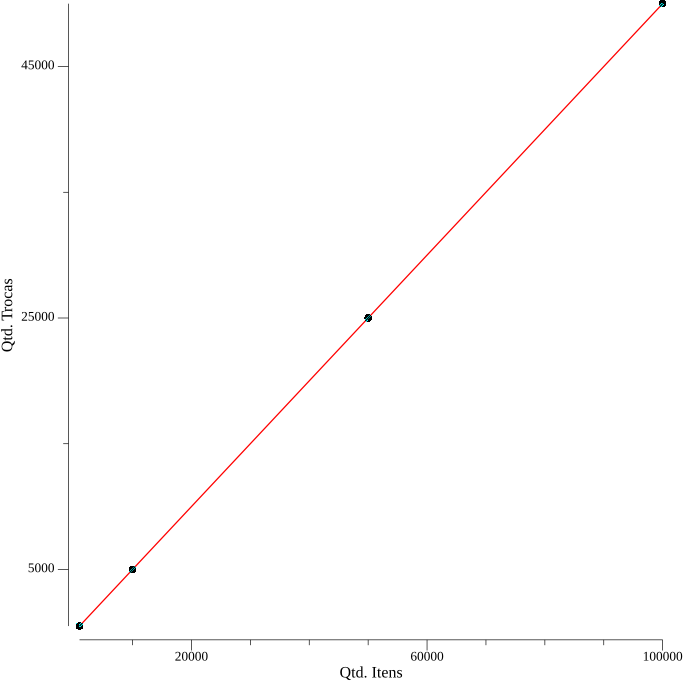
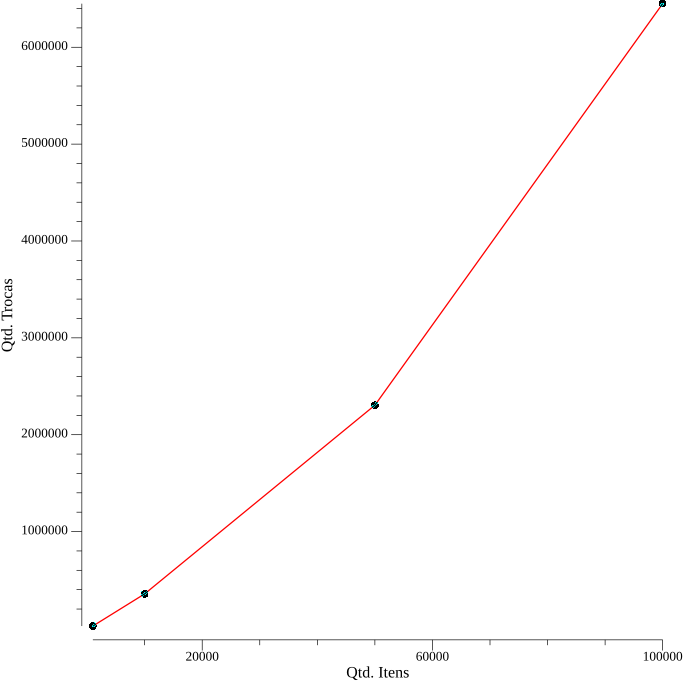
mais correcoes

diff --git a/main.go b/main.go
@@ -1,7 +1,9 @@
 package main
 
 import (
+	"encoding/json"
 	"fmt"
+	"log"
 	a "main/algoritms"
 	"reflect"
 	"time"
@@ -10,18 +12,19 @@ import (
 func executeAlgorithm(a a.SortAlg, list []int) (int, int, time.Duration) {
 	return a(list)
 }
+
 func initResultMap() map[string]map[string]map[string]map[string]interface{} {
 	var resultMap = make(map[string]map[string]map[string]map[string]interface{}, len(mapAlgorithms))
 	for k, v := range mapAlgorithms {
 		v = v
 		resultMap[k] = make(map[string]map[string]map[string]interface{}, len(listSizes))
 		for i := range listSizes {
-			resultMap[k][listSizes[i]] = make(map[string]map[string]interface{}, len(listNames))
-			for j := range listNames {
-				resultMap[k][listSizes[i]][listNames[j]] = make(map[string]interface{}, 3)
-				resultMap[k][listSizes[i]][listNames[j]]["comparacoes"] = 0
-				resultMap[k][listSizes[i]][listNames[j]]["trocas"] = 0
-				resultMap[k][listSizes[i]][listNames[j]]["tempo"] = time.Now()
+			resultMap[k][listSizes[i]] = make(map[string]map[string]interface{}, len(listDistributions))
+			for j := range listDistributions {
+				resultMap[k][listSizes[i]][listDistributions[j]] = make(map[string]interface{}, 3)
+				resultMap[k][listSizes[i]][listDistributions[j]]["comparacoes"] = 0
+				resultMap[k][listSizes[i]][listDistributions[j]]["trocas"] = 0
+				resultMap[k][listSizes[i]][listDistributions[j]]["tempo"] = time.Now()
 			}
 		}
 	}
@@ -32,25 +35,20 @@ func runAlgorithms(l *Lists) map[string]map[string]map[string]map[string]interfa
 	v := reflect.ValueOf(l).Elem()
 	resultMap := initResultMap()
 
-	for i := 0; i < v.NumField(); i++ {
-		listas := v.Field(i)
-		for j := 0; j < listas.NumField(); j++ {
-			listaAny := listas.Field(j).Addr().Interface()
-			fmt.Println(listas.Field(j).Cap())
-			lista := listaAny.(*[]int)
-			var listaCopia = make([]int, len(*lista))
-			copy(listaCopia, *lista)
+	for k, alg := range mapAlgorithms {
+		for i := 0; i < v.NumField(); i++ {
+			listas := v.Field(i)
+			for j := 0; j < listas.NumField(); j++ {
+				listaAny := listas.Field(j).Addr().Interface()
+				lista := listaAny.(*[]int)
+				var listaCopia = make([]int, len(*lista))
+				copy(listaCopia, *lista)
 
-			for k, v := range mapAlgorithms {
-				fmt.Println("---", k, "---")
-				c, t, d := executeAlgorithm(v, listaCopia)
-				resultMap[k][listSizes[i]][listNames[j]]["comparacoes"] = c
-				resultMap[k][listSizes[i]][listNames[j]]["trocas"] = t
-				duration := float64(d) / float64(time.Millisecond)
-				resultMap[k][listSizes[i]][listNames[j]]["tempo"] = duration
-				// fmt.Printf("Tipo de lista: %v - %v, Algoritmo: %v -- \nComparações: %v\nTrocas: %v\nDuração: %v\n\n",
-				// 	listNames[j], listSizes[i], k, c, t, duration,
-				// )
+				c, t, d := executeAlgorithm(alg, listaCopia)
+
+				resultMap[k][listSizes[i]][listDistributions[j]]["comparacoes"] = c
+				resultMap[k][listSizes[i]][listDistributions[j]]["trocas"] = t
+				resultMap[k][listSizes[i]][listDistributions[j]]["tempo"] = float64(d) / float64(time.Millisecond)
 			}
 		}
 	}
@@ -59,15 +57,14 @@ func runAlgorithms(l *Lists) map[string]map[string]map[string]map[string]interfa
 }
 
 func main() {
+
 	lists := NewListsNumbers()
 	res := runAlgorithms(lists)
-	// resJson, err := json.Marshal(res)
-	// if err != nil {
-	// 	log.Fatal(err)
-	// }
+	resJson, err := json.Marshal(res)
+	if err != nil {
+		log.Fatal(err)
+	}
 
-	// fmt.Println(string(resJson))
-	// var lista = []int{5, 6, 9, 3, 1, 10, 8, 2, 7, 4}
-	// a.SelectionSort(lista)
+	fmt.Println(string(resJson))
 	plotGraphs(res)
 }

diff --git a/algoritms/mergesort.go b/algoritms/mergesort.go
@@ -5,8 +5,8 @@ import (
 	"time"
 )
 
-var comparacoes *int = new(int)
-var trocas *int = new(int)
+var comparacoes int = 0
+var trocas int = 0
 
 func merge(arr1 []int, arr2 []int) []int {
 	var i, j, k int = 0, 0, 0
@@ -14,43 +14,43 @@ func merge(arr1 []int, arr2 []int) []int {
 	arr3 := make([]int, 0, lenArr3)
 
 	for {
-		*comparacoes++
+		comparacoes++
 		if i > len(arr1) && j > len(arr2) {
 			break
 		}
 
-		*comparacoes++
+		comparacoes++
 		if arr1[i] < arr2[j] {
 			arr3 = append(arr3, arr1[i])
-			*trocas++
+			trocas++
 			k++
 			i++
 		} else if arr2[j] < arr1[i] {
-			*comparacoes++
+			comparacoes++
+			trocas++
 			arr3 = append(arr3, arr2[j])
-			*trocas++
 			k++
 			j++
 		} else {
+			trocas = trocas + 2
 			arr3 = append(arr3, arr1[i])
 			arr3 = append(arr3, arr2[j])
-			*trocas = *trocas + 2
 			k = k + 2
 			i++
 			j++
 		}
 
-		*comparacoes++
+		comparacoes++
 		if i >= len(arr1) {
 			arr3 = append(arr3, arr2[j:]...)
-			*trocas = len(arr2[i:])
+			trocas = trocas + len(arr2[i:])
 			break
 		}
 
-		*comparacoes++
+		comparacoes++
 		if j >= len(arr2) {
 			arr3 = append(arr3, arr1[i:]...)
-			*trocas = len(arr1[i:])
+			trocas = trocas + len(arr1[i:])
 			break
 		}
 	}
@@ -73,11 +73,15 @@ func mergeSort(arr []int) []int {
 
 func MergeSort(arr []int) (int, int, time.Duration) {
 	start := time.Now()
-	res := mergeSort(arr)
-	if ValidateSorting(res) {
-		fmt.Println("CERTO")
+
+	if ValidateSorting(arr) {
+		fmt.Println("array ja ta ordenada")
 	} else {
-		fmt.Println("ERRADO")
+		fmt.Println("array ta desordenada certo")
 	}
-	return *comparacoes, *trocas, time.Since(start)
+
+	mergeSort(arr)
+
+	fmt.Println("trocas: ", trocas)
+	return comparacoes, trocas, time.Since(start)
 }

diff --git a/algoritms/quicksort.go b/algoritms/quicksort.go
@@ -1,32 +1,31 @@
 package algorithms
 
 import (
-	"fmt"
 	"time"
 )
 
-var comp *int = new(int)
-var tr *int = new(int)
+var comp int = 0
+var tr int = 0
 
 func partition(arr *[]int, s int, e int) int {
 	p := (*arr)[e]
 	i := s - 1
 
 	for j := s; j < e; j++ {
-		*comp++
+		comp++
 		if (*arr)[j] <= p {
 			i++
 			(*arr)[i], (*arr)[j] = (*arr)[j], (*arr)[i]
-			*tr++
+			tr++
 		}
 	}
 	(*arr)[i+1], (*arr)[e] = (*arr)[e], (*arr)[i+1]
-	*tr++
+	tr++
 	return i + 1
 }
 
 func quickSort(arr *[]int, s int, e int) {
-	*comp++
+	comp++
 	if s <= e {
 		p := partition(arr, s, e)
 
@@ -39,10 +38,6 @@ func QuickSort(arr []int) (int, int, time.Duration) {
 	start := time.Now()
 	var arrPtr = &arr
 	quickSort(arrPtr, 0, len(arr)-1)
-	if ValidateSorting(*arrPtr) {
-		fmt.Println("CERTO")
-	} else {
-		fmt.Println("ERRADO")
-	}
-	return *comp, *tr, time.Since(start)
+
+	return comp, tr, time.Since(start)
 }

diff --git a/docs.go b/docs.go
@@ -2,24 +2,24 @@ package main
 
 import a "main/algoritms"
 
-var listNames = []string{
-	"Ordem aleatória",
-	"Ordem crescente",
-	"Ordem decrescente",
+var listDistributions = map[int]string{
+	0: "Ordem aleatória",
+	1: "Ordem crescente",
+	2: "Ordem decrescente",
 }
 
-var listSizes = []string{
-	"1000",
-	"10000",
-	"50000",
-	"100000",
+var listSizes = map[int]string{
+	0: "1000",
+	1: "10000",
+	2: "50000",
+	3: "100000",
 }
 
 var mapAlgorithms = map[string]a.SortAlg{
 	// "Bubble Sort":    a.BubbleSort,
 	// "Selection Sort": a.SelectionSort,
 	// "Insertion Sort": a.InsertionSort,
-	// "Merge Sort":     a.MergeSort,
+	"Merge Sort":     a.MergeSort,
 	// "Quick Sort":     a.QuickSort,
 	// "Heap Sort":      a.HeapSort,
 }

diff --git a/algoritms/selectionsort.go b/algoritms/selectionsort.go
@@ -1,7 +1,6 @@
 package algorithms
 
 import (
-	"fmt"
 	"time"
 )
 
@@ -11,8 +10,6 @@ func SelectionSort(array []int) (int, int, time.Duration) {
 	trocas := 0
 
 	start := time.Now()
-
-	// {5, 6, 9, 3, 1, 10, 8, 2, 7, 4}
 
 	for i := 0; i < n-1; i++ {
 		smallest := i
@@ -26,15 +23,6 @@ func SelectionSort(array []int) (int, int, time.Duration) {
 		trocas++
 	}
 
-	if ValidateSorting(array) {
-		fmt.Println("CERTO")
-	} else {
-		fmt.Println("ERRADO")
-	}
-
-
-
 	duration := time.Since(start)
-
 	return comparacoes, trocas, duration
 }

diff --git a/utils.go b/utils.go
@@ -20,6 +20,7 @@ type ListVariations struct {
 }
 
 func NewListsNumbers() *Lists {
+	rand.Seed(time.Now().UnixNano())
 
 	return &Lists{
 		List1000:   createListVariations(1000),
@@ -30,7 +31,6 @@ func NewListsNumbers() *Lists {
 }
 
 func createListVariations(size int) ListVariations {
-	rand.Seed(time.Now().UnixNano())
 
 	listaAleatoria := make([]int, size)
 	for i := range listaAleatoria {
@@ -51,5 +51,3 @@ func createListVariations(size int) ListVariations {
 		ReverseList: listaInversa,
 	}
 }
-
-

diff --git a/algoritms/sorting.go b/algoritms/sorting.go
@@ -1,7 +1,6 @@
 package algorithms
 
 import (
-	"fmt"
 	"time"
 )
 
@@ -10,8 +9,7 @@ type SortAlg func([]int) (int, int, time.Duration)
 func ValidateSorting(arr []int) bool {
 	for i := 0; i < len(arr)-1; i++ {
 		if arr[i] > arr[i+1] {
-			str := fmt.Sprintf("%v -- %v %v, position %v %v", arr, arr[i], arr[i+1], i, i+1)
-			panic(str)
+			return false
 		}
 	}
 	return true

diff --git a/algoritms/heapsort.go b/algoritms/heapsort.go
@@ -1,7 +1,6 @@
 package algorithms
 
 import (
-	"fmt"
 	"time"
 )
 
@@ -44,12 +43,6 @@ func HeapSort(arr []int) (int, int, time.Duration) {
 		trocas++
 
 		heapify(arr, i, 0, &comparacoes, &trocas)
-	}
-
-	if ValidateSorting(arr) {
-		fmt.Println("CERTO")
-	} else {
-		fmt.Println("ERRADO")
 	}
 
 	duration := time.Since(start)

diff --git a/algoritms/bubblesort.go b/algoritms/bubblesort.go
@@ -1,7 +1,6 @@
 package algorithms
 
 import (
-	"fmt"
 	"time"
 )
 
@@ -22,13 +21,6 @@ func BubbleSort(array []int) (int, int, time.Duration) {
 		}
 	}
 
-	if ValidateSorting(array) {
-		fmt.Println("CERTO")
-	} else {
-		fmt.Println("ERRADO")
-	}
-
 	duration := time.Since(start)
-
 	return comparacoes, trocas, duration
 }

diff --git a/plot.go b/plot.go
@@ -16,7 +16,7 @@ func plotGraphs(data map[string]map[string]map[string]map[string]interface{}) {
 	// Plotando para Selection Sort
 	XYs := plotter.XYs{}
 
-	for i := range listSizes {
+	for i := 0; i < 4; i++ {
 		s, err := strconv.Atoi(listSizes[i])
 		if err != nil {
 			log.Fatal(err)
